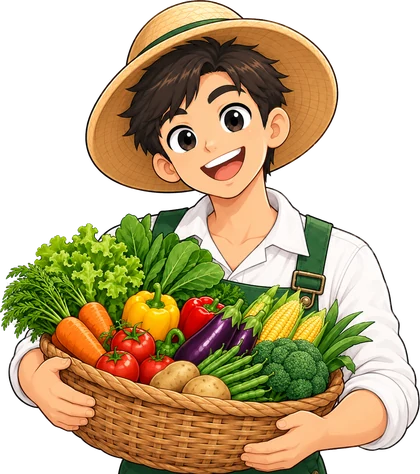
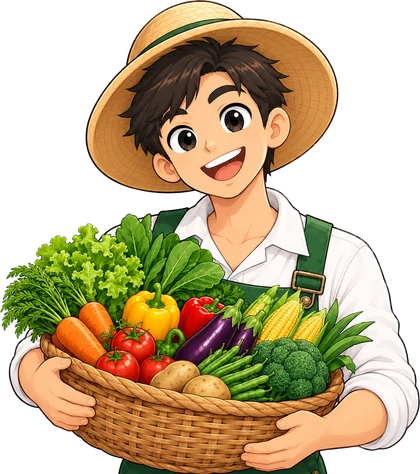
Mascot talks fast in prices page card

diff --git a/src/styles/appStyles.ts b/src/styles/appStyles.ts
@@ -1042,8 +1042,8 @@ export const appCss = `
     position: absolute; right: -16px; bottom: -10px; z-index: 0; width: 146px;
     aspect-ratio: 420 / 474; pointer-events: none;
   }
-  .pr-mascot img {
-    display: block; width: 100%; height: 100%;
+  .pb-fig {
+    position: relative; width: 100%; height: 100%;
     /* Lifts him off the dark card without a hard edge. */
     filter: drop-shadow(0 8px 14px rgba(0,0,0,.35));
     /* Breathing: three pixels, slow, so he is alive at the edge of the eye
@@ -1051,6 +1051,26 @@ export const appCss = `
     animation: pr-bob 3.8s ease-in-out 1.4s infinite alternate;
   }
   @keyframes pr-bob { to { transform: translateY(-3px); } }
+  .pb-fig img { position: absolute; inset: 0; display: block; width: 100%; height: 100%; }
+  /* Face layers: shown in turn, never faded. A blink or a mouth shape that
+     dissolves reads as a ghost; one that snaps reads as a face moving. */
+  .pb-blink, .pb-mouth { opacity: 0; }
+  /* A blink every 4.6 s, shut for about 140 ms, the length of a real one. */
+  .pb-blink { animation: pb-blink 4.6s step-end 1.2s infinite; }
+  @keyframes pb-blink { 0% { opacity: 0; } 94% { opacity: 1; } 97% { opacity: 0; } }
+  /* Talking: open, half, shut, half, open… in quick 130 ms beats, the
+     pace of lively chatter, for about a second and a half, then a short
+     smiling pause with his mouth open, and again. Two layers share one
+     clock, so their beats never drift apart. */
+  .pb-mouth.half { animation: pb-talk-half 2.2s step-end .9s infinite; }
+  .pb-mouth.shut { animation: pb-talk-shut 2.2s step-end .9s infinite; }
+  @keyframes pb-talk-half {
+    0% { opacity: 0; } 6% { opacity: 1; } 12% { opacity: 0; } 18% { opacity: 1; } 24% { opacity: 0; }
+    30% { opacity: 1; } 36% { opacity: 0; } 48% { opacity: 1; } 54% { opacity: 0; } 60% { opacity: 1; } 66% { opacity: 0; }
+  }
+  @keyframes pb-talk-shut {
+    0% { opacity: 0; } 12% { opacity: 1; } 18% { opacity: 0; } 36% { opacity: 1; } 42% { opacity: 0; } 54% { opacity: 1; } 60% { opacity: 0; }
+  }
   /* Once per visit to the app, not on every tab switch: Prices is opened
      again and again, and a greeting on the twentieth visit is a delay.
      After the first, he is simply there. */
@@ -1069,7 +1089,7 @@ export const appCss = `
   }
   @media (prefers-reduced-motion: reduce) {
     .shell:not([data-revisit]) .pr-mascot.basket,
-    .pr-mascot img { animation: none; }
+    .pb-fig, .pb-blink, .pb-mouth { animation: none; }
   }
 
   /* Change chip: arrow, sign and colour, so direction never rests on colour. */

diff --git a/src/screens/MarketScreen.tsx b/src/screens/MarketScreen.tsx
@@ -14,6 +14,9 @@ import { cropPhoto, cropGroupPhoto } from "../data/cropPhotos";
 import { Sheet } from "../components/ui/Sheet";
 import { useRetained } from "../hooks/usePresence";
 import mascotBasket from "../assets/mascot-basket.webp";
+import basketBlink from "../assets/mascot-basket-blink.webp";
+import basketMouthHalf from "../assets/mascot-basket-mouth-half.webp";
+import basketMouthShut from "../assets/mascot-basket-mouth-shut.webp";
 
 // ─── Prices ───────────────────────────────────────────────────────────────────
 // Reads top to bottom as three questions:
@@ -208,11 +211,19 @@ export function MarketScreen({ onProfile, isOffline, lastUpdated, onBack, userIn
           </div>
           {/* A farmer with the day's basket, standing behind the card's
               bottom edge. A good day for you: he lifts it up with a little
-              bounce. Otherwise he simply rises into view. Decoration with a
-              meaning, so hidden from screen readers: the headline says it. */}
+              bounce. Otherwise he simply rises into view. Then he blinks and
+              chats, on a loop: the lids and two mouth shapes are layers
+              drawn on the same canvas as the picture, shown in turn.
+              Decoration with a meaning, so hidden from screen readers: the
+              headline says it. */}
           {prices.status === "ready" && (
             <div className={`pr-mascot basket ${goodDay ? "good" : ""}`} aria-hidden="true">
-              <img src={mascotBasket} alt="" width={420} height={474} decoding="async" />
+              <div className="pb-fig">
+                <img src={mascotBasket} alt="" width={420} height={474} decoding="async" />
+                <img className="pb-blink" src={basketBlink} alt="" width={420} height={474} decoding="async" />
+                <img className="pb-mouth half" src={basketMouthHalf} alt="" width={420} height={474} decoding="async" />
+                <img className="pb-mouth shut" src={basketMouthShut} alt="" width={420} height={474} decoding="async" />
+              </div>
             </div>
           )}
         </section>
